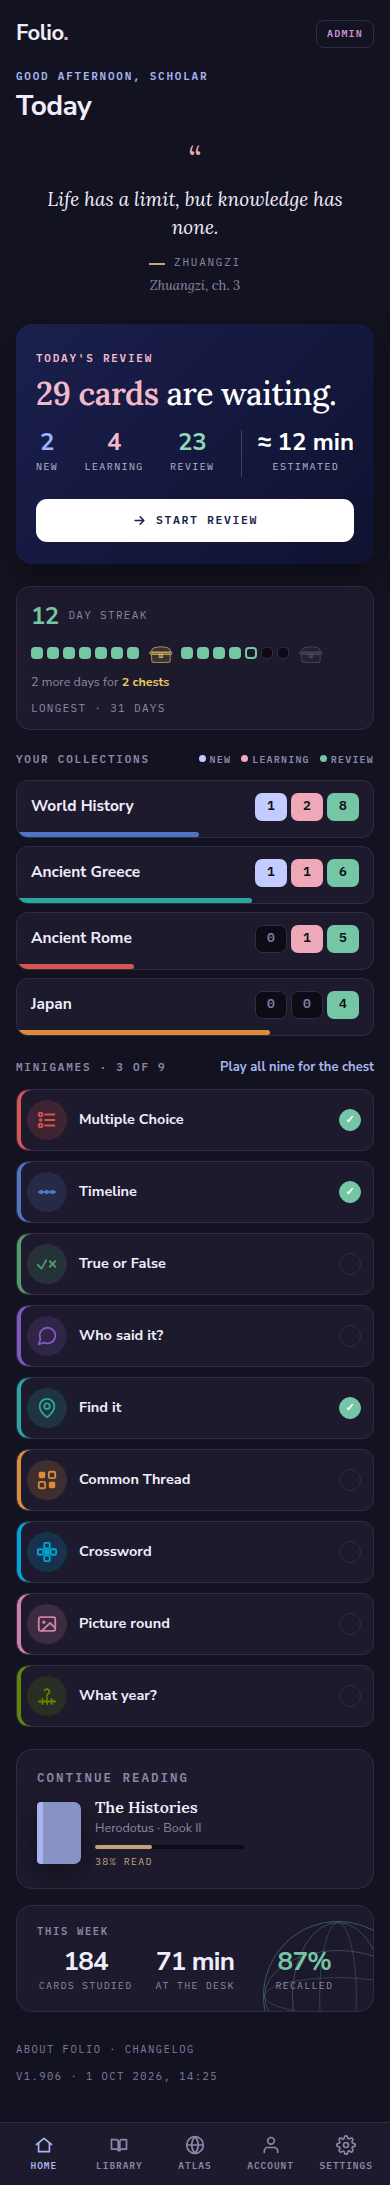
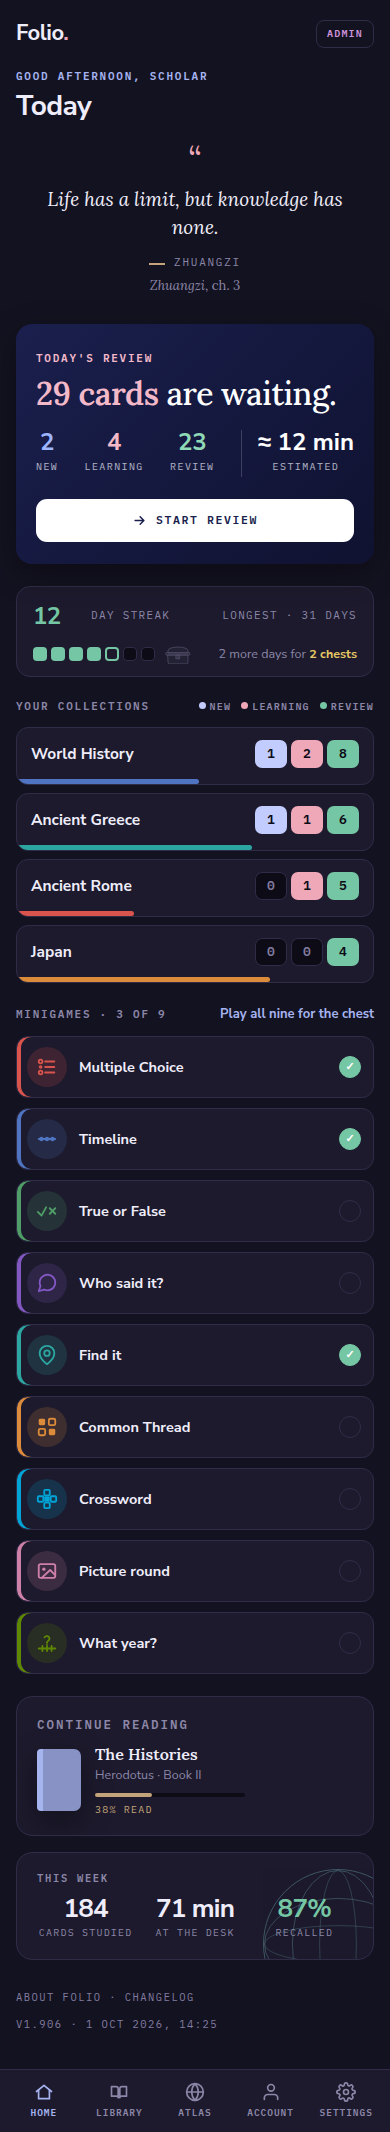
Composed home page: the phone ribbon shows the current week only, in two rows
Claude-Session: https://claude.ai/code/session_01FZqnjJL9hSmvynj3x2xjzS

diff --git a/docs/mockups/home-redesigns/final/home-composed.html b/docs/mockups/home-redesigns/final/home-composed.html
@@ -127,7 +127,12 @@
 .week .stats .g b{color:var(--good);}
 .two{display:grid; grid-template-columns:1fr 1fr; gap:16px;}
 @media (max-width:1024px){ .list{grid-template-columns:1fr 1fr;} }
-@media (max-width:640px){ .phone-head .brand small{display:none;} .ribbon .days{gap:8px;} .ribbon .days i{width:12px; height:12px;} .ribbon .chest{width:24px;} .ribbon .note{flex-basis:100%;} .ribbon .r{margin-left:0;}
+@media (max-width:640px){ .phone-head .brand small{display:none;}
+  /* the phone's ribbon: two rows, the current week only */
+  .ribbon{display:grid; grid-template-columns:auto auto 1fr; align-items:center; gap:10px 10px; padding:12px 16px;}
+  .ribbon > b{grid-column:1; grid-row:1;} .ribbon > .t{grid-column:2; grid-row:1;} .ribbon .r{grid-column:3; grid-row:1; justify-self:end; margin:0;}
+  .ribbon .days{grid-column:1 / 3; grid-row:2; gap:6px;} .ribbon .wk:not(.cur){display:none;} .ribbon .days i{width:14px; height:14px;} .ribbon .chest{width:26px;}
+  .ribbon .note{grid-column:3; grid-row:2; justify-self:end; text-align:right; line-height:1.3;}
  .wrap{padding:18px 16px 100px;} .study .stack{width:100%;} .study .stack .pile{justify-content:space-between;} .fr{grid-template-columns:1fr auto; padding:12px 14px 16px;} .fr .pct{display:none;}
   .fr::before{top:auto; height:5px; border-right:0; background:var(--c); border-radius:0 3px 3px 0;} .fr .m{display:none;} .list{grid-template-columns:1fr;} .two{grid-template-columns:1fr;} }
 </style>
@@ -151,7 +156,7 @@
 </div>
 </section>
   <div class="gap"></div>
-  <div class="ribbon"><b>12</b><span class="t">day streak</span><span class="days"><span class="wk"><i class=""></i><i class=""></i><i class=""></i><i class=""></i><i class=""></i><i class=""></i><i class=""></i><span class="chest won" title="Week 1 paid"><svg class="chest-svg" viewBox="0 0 120 96" fill="none" stroke="currentColor" stroke-width="3.4" stroke-linecap="round" stroke-linejoin="round" aria-hidden="true"><g class="chest-lid"><path d="M14 40V30a46 16 0 0 1 92 0v10z" fill="currentColor" fill-opacity=".14"/><path d="M6 40h108v11H6z" fill="currentColor" fill-opacity=".22"/></g><g class="chest-box"><path d="M14 51h92v35a6 6 0 0 1-6 6H20a6 6 0 0 1-6-6z" fill="currentColor" fill-opacity=".14"/><path d="M52 51h16v17H52z" fill="currentColor" fill-opacity=".3"/><path d="M60 60v6"/></g></svg></span></span><span class="wk"><i class=""></i><i class=""></i><i class=""></i><i class=""></i><i class="t"></i><i class="o"></i><i class="o"></i><span class="chest " title="Worth 2 chests"><svg class="chest-svg" viewBox="0 0 120 96" fill="none" stroke="currentColor" stroke-width="3.4" stroke-linecap="round" stroke-linejoin="round" aria-hidden="true"><g class="chest-lid"><path d="M14 40V30a46 16 0 0 1 92 0v10z" fill="currentColor" fill-opacity=".14"/><path d="M6 40h108v11H6z" fill="currentColor" fill-opacity=".22"/></g><g class="chest-box"><path d="M14 51h92v35a6 6 0 0 1-6 6H20a6 6 0 0 1-6-6z" fill="currentColor" fill-opacity=".14"/><path d="M52 51h16v17H52z" fill="currentColor" fill-opacity=".3"/><path d="M60 60v6"/></g></svg></span></span></span><span class="note">2 more days for <b class="n2">2 chests</b></span><span class="r">Longest · 31 days</span></div>
+  <div class="ribbon"><b>12</b><span class="t">day streak</span><span class="days"><span class="wk"><i class=""></i><i class=""></i><i class=""></i><i class=""></i><i class=""></i><i class=""></i><i class=""></i><span class="chest won" title="Week 1 paid"><svg class="chest-svg" viewBox="0 0 120 96" fill="none" stroke="currentColor" stroke-width="3.4" stroke-linecap="round" stroke-linejoin="round" aria-hidden="true"><g class="chest-lid"><path d="M14 40V30a46 16 0 0 1 92 0v10z" fill="currentColor" fill-opacity=".14"/><path d="M6 40h108v11H6z" fill="currentColor" fill-opacity=".22"/></g><g class="chest-box"><path d="M14 51h92v35a6 6 0 0 1-6 6H20a6 6 0 0 1-6-6z" fill="currentColor" fill-opacity=".14"/><path d="M52 51h16v17H52z" fill="currentColor" fill-opacity=".3"/><path d="M60 60v6"/></g></svg></span></span><span class="wk cur"><i class=""></i><i class=""></i><i class=""></i><i class=""></i><i class="t"></i><i class="o"></i><i class="o"></i><span class="chest " title="Worth 2 chests"><svg class="chest-svg" viewBox="0 0 120 96" fill="none" stroke="currentColor" stroke-width="3.4" stroke-linecap="round" stroke-linejoin="round" aria-hidden="true"><g class="chest-lid"><path d="M14 40V30a46 16 0 0 1 92 0v10z" fill="currentColor" fill-opacity=".14"/><path d="M6 40h108v11H6z" fill="currentColor" fill-opacity=".22"/></g><g class="chest-box"><path d="M14 51h92v35a6 6 0 0 1-6 6H20a6 6 0 0 1-6-6z" fill="currentColor" fill-opacity=".14"/><path d="M52 51h16v17H52z" fill="currentColor" fill-opacity=".3"/><path d="M60 60v6"/></g></svg></span></span></span><span class="note">2 more days for <b class="n2">2 chests</b></span><span class="r">Longest · 31 days</span></div>
   <div class="gap"></div>
   <div class="sec-h"><span>Your collections</span><span class="legend"><span class="n"><i></i>New</span><span class="l"><i></i>Learning</span><span class="r"><i></i>Review</span></span></div>
   <div class="fill"><a class="fr" href="#study" style="--c:#4F74C2; --w:51%"><span><b class="name">World History</b><span class="m" data-pct="51">412 of 810 cards learned</span></span><span class="pct">51%</span><span class="boxes"><i class="n">1</i><i class="l">2</i><i class="r">8</i></span></a><a class="fr" href="#study" style="--c:#2BA6A0; --w:66%"><span><b class="name">Ancient Greece</b><span class="m" data-pct="66">655 of 1,000 cards learned</span></span><span class="pct">66%</span><span class="boxes"><i class="n">1</i><i class="l">1</i><i class="r">6</i></span></a><a class="fr" href="#study" style="--c:#D9544C; --w:33%"><span><b class="name">Ancient Rome</b><span class="m" data-pct="33">190 of 580 cards learned</span></span><span class="pct">33%</span><span class="boxes"><i class="z">0</i><i class="l">1</i><i class="r">5</i></span></a><a class="fr" href="#study" style="--c:#DB8B3A; --w:71%"><span><b class="name">Japan</b><span class="m" data-pct="71">71 of 100 cards learned</span></span><span class="pct">71%</span><span class="boxes"><i class="z">0</i><i class="z">0</i><i class="r">4</i></span></a></div>

diff --git a/docs/mockups/home-redesigns/final/build.js b/docs/mockups/home-redesigns/final/build.js
@@ -29,7 +29,8 @@ const ribbonChests = () => {
   for (let w = 0; w < Math.max(weeks, 2); w++) {
     const days = Array.from({ length: every }, (_, i) => { const d = w * every + i + 1; return `<i class="${d <= streak ? (d === streak ? "t" : "") : "o"}"></i>`; }).join("");
     const paid = (w + 1) * every <= streak;
-    out += `<span class="wk">${days}<span class="chest ${paid ? "won" : ""}" title="${paid ? "Week " + (w + 1) + " paid" : "Worth " + (w + 1) + (w ? " chests" : " chest")}">${CHEST}</span></span>`;
+    const cur = w === weeks - 1;
+    out += `<span class="wk${cur ? " cur" : ""}">${days}<span class="chest ${paid ? "won" : ""}" title="${paid ? "Week " + (w + 1) + " paid" : "Worth " + (w + 1) + (w ? " chests" : " chest")}">${CHEST}</span></span>`;
   }
   return out;
 };
@@ -72,7 +73,12 @@ const CSS = `
 .week .stats .g b{color:var(--good);}
 .two{display:grid; grid-template-columns:1fr 1fr; gap:16px;}
 @media (max-width:1024px){ .list{grid-template-columns:1fr 1fr;} }
-@media (max-width:640px){ .phone-head .brand small{display:none;} .ribbon .days{gap:8px;} .ribbon .days i{width:12px; height:12px;} .ribbon .chest{width:24px;} .ribbon .note{flex-basis:100%;} .ribbon .r{margin-left:0;}
+@media (max-width:640px){ .phone-head .brand small{display:none;}
+  /* the phone's ribbon: two rows, the current week only */
+  .ribbon{display:grid; grid-template-columns:auto auto 1fr; align-items:center; gap:10px 10px; padding:12px 16px;}
+  .ribbon > b{grid-column:1; grid-row:1;} .ribbon > .t{grid-column:2; grid-row:1;} .ribbon .r{grid-column:3; grid-row:1; justify-self:end; margin:0;}
+  .ribbon .days{grid-column:1 / 3; grid-row:2; gap:6px;} .ribbon .wk:not(.cur){display:none;} .ribbon .days i{width:14px; height:14px;} .ribbon .chest{width:26px;}
+  .ribbon .note{grid-column:3; grid-row:2; justify-self:end; text-align:right; line-height:1.3;}
  .wrap{padding:18px 16px 100px;} .study .stack{width:100%;} .study .stack .pile{justify-content:space-between;} .fr{grid-template-columns:1fr auto; padding:12px 14px 16px;} .fr .pct{display:none;}
   .fr::before{top:auto; height:5px; border-right:0; background:var(--c); border-radius:0 3px 3px 0;} .fr .m{display:none;} .list{grid-template-columns:1fr;} .two{grid-template-columns:1fr;} }`;
 
